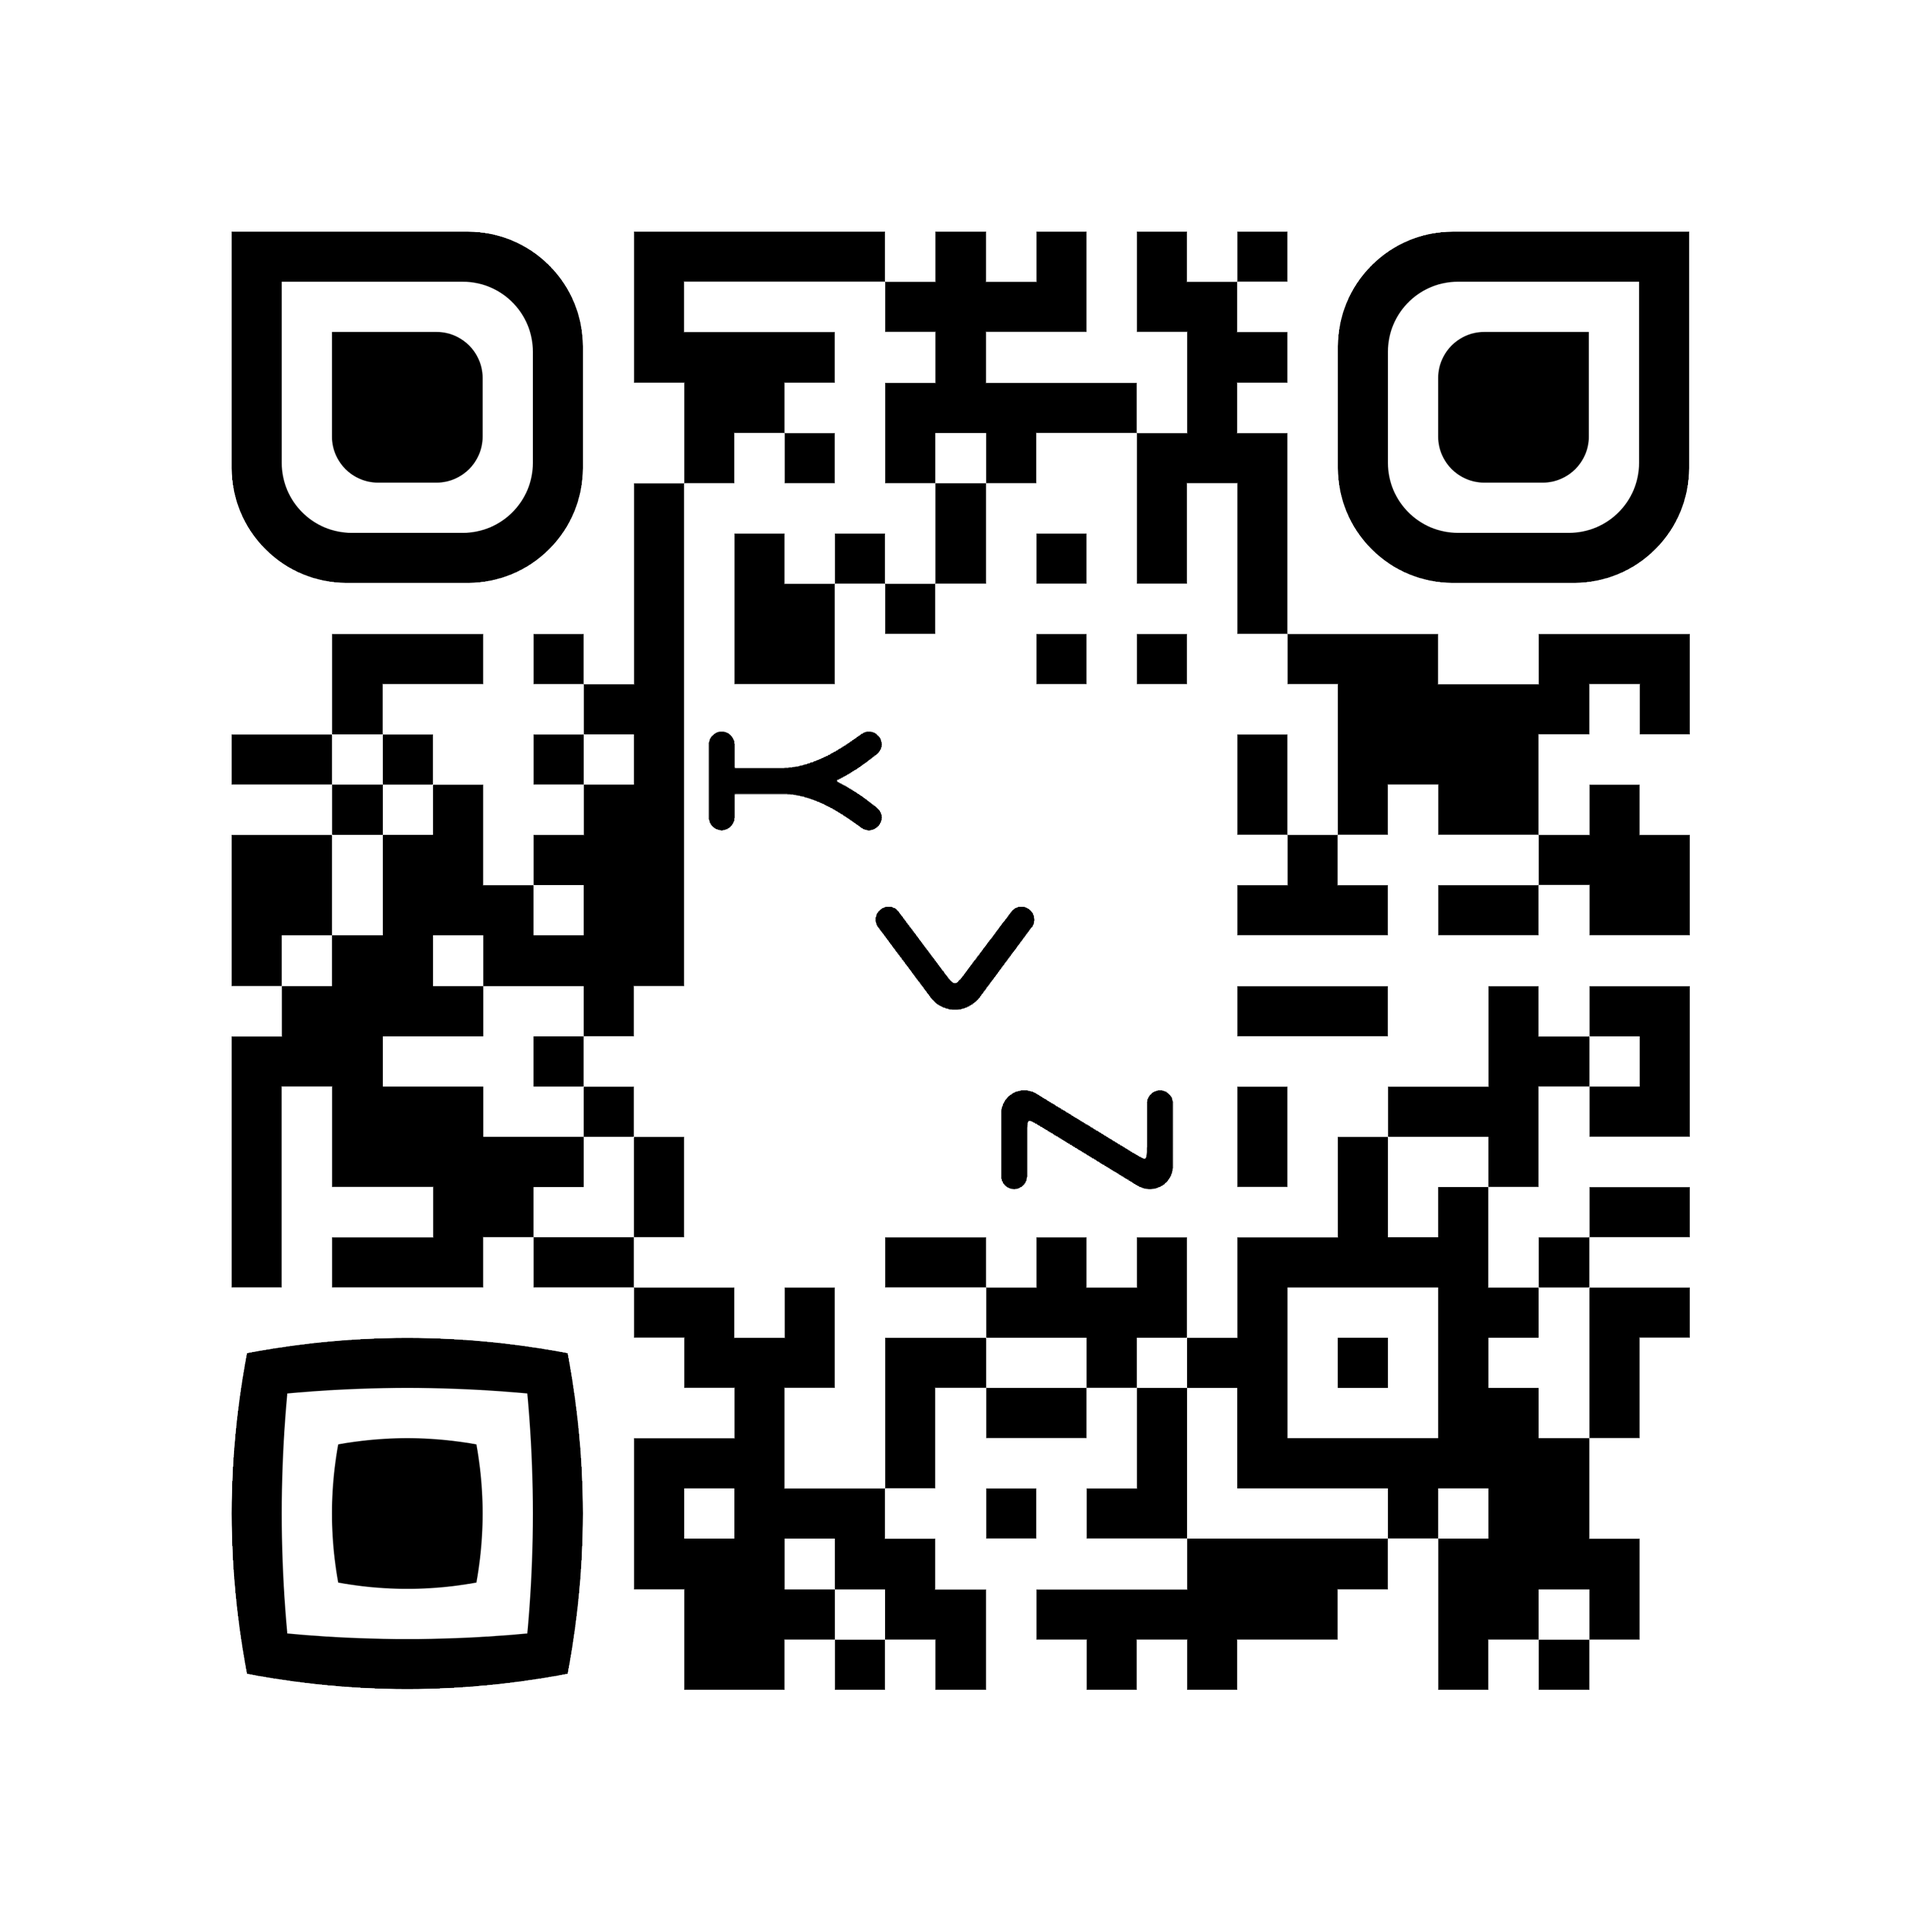
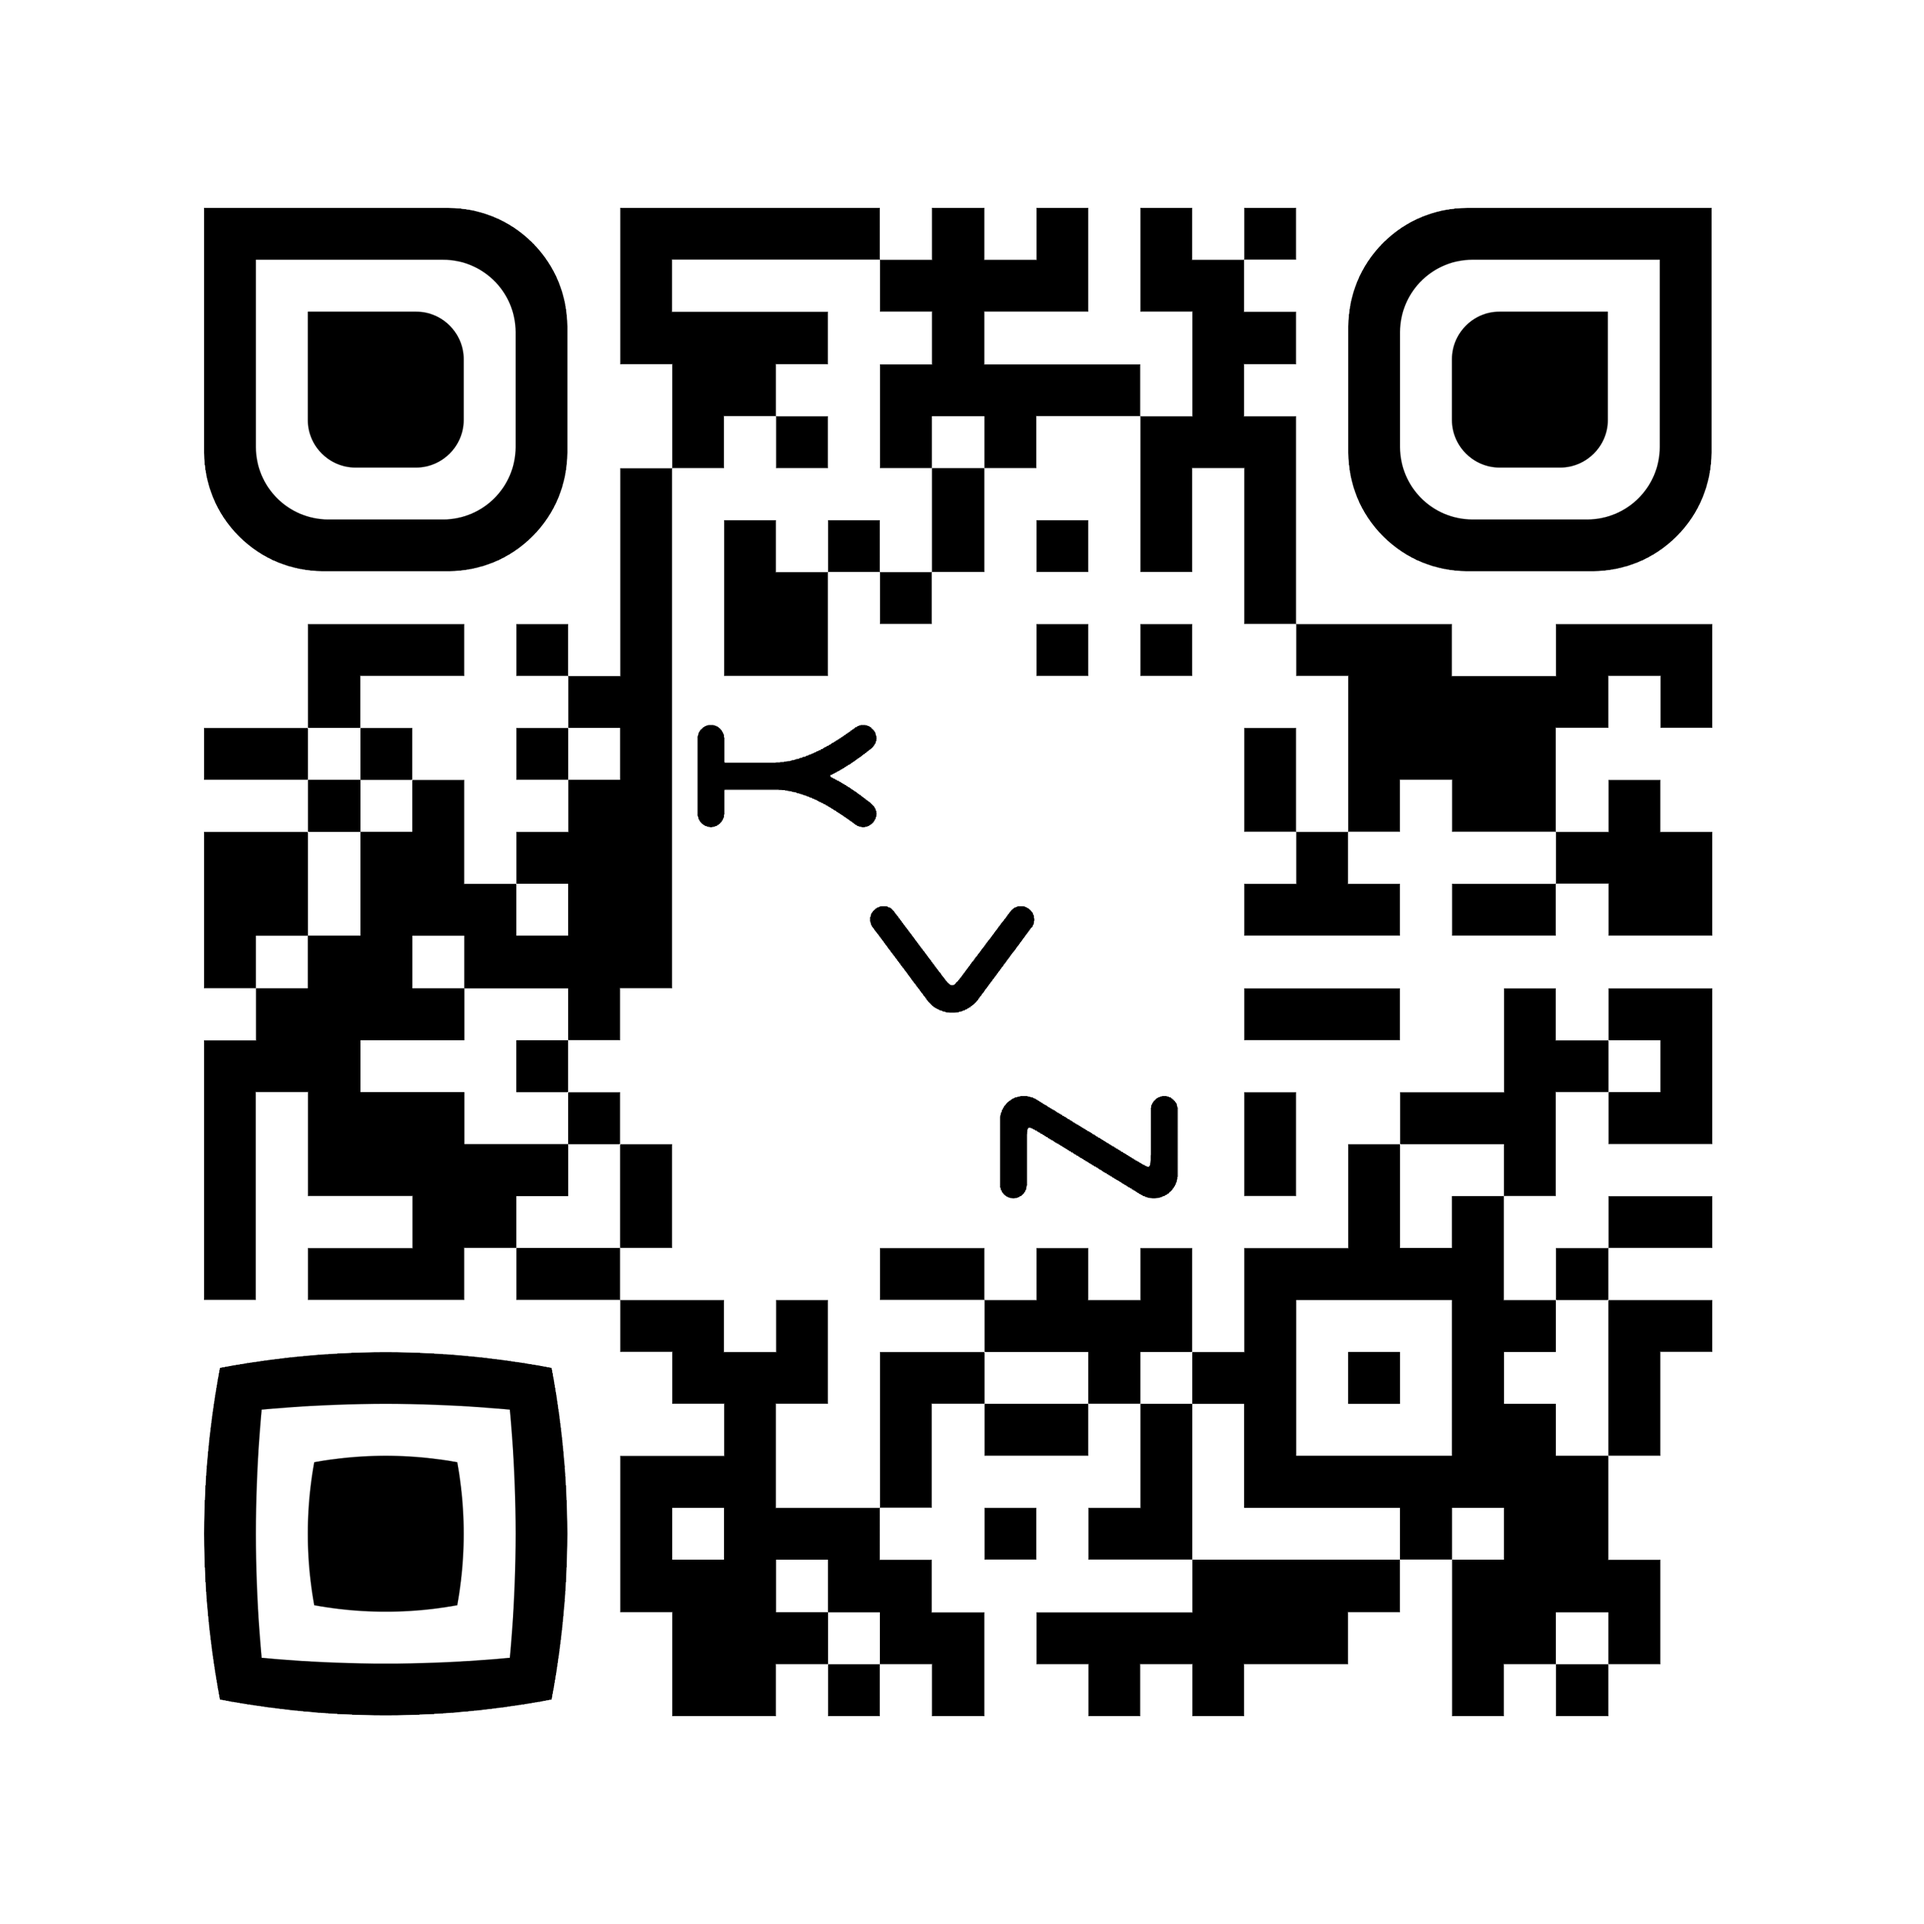
minor css updates

Changed region(s): [[0.093, 0.093, 0.899, 0.899], [0.527, 0.558, 0.558, 0.589], [0.465, 0.496, 0.496, 0.527]]

diff --git a/client/src/pages/TeamPage.js b/client/src/pages/TeamPage.js
@@ -9,11 +9,11 @@ const TeamPage = () => {
 
 
 			{/* John*/}
-			<Col lg="4" md="6" className="mb-lg-0 mb-5">
+			<Col lg="3" md="6" className="mb-lg-0 mb-5">
 				<Avatar tag="img" src="./images/team/john.png" className="rounded-circle hoverable z-depth-1 img-fluid" alt="John" />
 				<h5 className="font-weight-bold mt-4 mb-3">John Stuart</h5>
 				<p className="text-uppercase blue-text">Full Stack Web Developer<br />API Brain</p>
-				<p className="grey-text hoverable px-2	 ">MERN Developer focused on API building and Data Structure<br />I like smol dogs, coffee and coding.<br/>
+				<p className="grey-text hoverable px-2	 ">MERN Developer focused on API building and Data Structure<br />I like smol dogs, coffee and coding.<br/><br/>
 						<img src="./images/team/QRJohn.png" alt="John" className="img-fluid px-4" />
 
 					<ul className="list-unstyled mb-0">
@@ -28,11 +28,11 @@ const TeamPage = () => {
 			{/* /John */}
 
 			{/* Kevin */}
-			<Col lg="4" md="6" className="mb-lg-0 mb-5">
+			<Col lg="3" md="6" className="mb-lg-0 mb-5">
 				<Avatar tag="img" src="./images/team/kvn.png" className="hoverable rounded-circle z-depth-1 img-fluid" alt="Kevin" />
 				<h5 className="font-weight-bold mt-4 mb-3">Kevin Smith</h5>
 				<p className="text-uppercase blue-text">Full Stack Web Developer<br />Frontend Mastermind</p>
-				<p className="grey-text hoverable px-1">MERN Developer specializing in Front End Developement.<br /><br />
+				<p className="grey-text hoverable px-1">MERN Developer specializing in Front End Developement.<br /><br /><br/><br/>
 					<img src="./images/team/QRKevin.png" alt="Kevin Smith PNG" className="img-fluid px-4" />
 					<ul className="list-unstyled mb-0">
 						<a className="p-2 fa-lg" target="blank" href="https://github.com/brainchomper">
@@ -51,7 +51,7 @@ const TeamPage = () => {
 			{/* /Kevin */}
 
 				{/* Joe */}
-				<Col lg="4" md="6" className="mb-lg-0 mb-5">
+				<Col lg="3" md="6" className="mb-lg-0 mb-5">
 				<Avatar tag="img" src="./images/team/joe.png" className="rounded-circle z-depth-1 img-fluid hoverable" alt="Joe" />
 				<h5 className="font-weight-bold mt-4 mb-3">Joe Calderon</h5>
 				<p className="text-uppercase blue-text">Full Stack Web Developer<br />Backend Ninja</p>
@@ -70,27 +70,27 @@ const TeamPage = () => {
 			{/* /Joe */}
 
 			{/* Alex */}
-			{/* <Col lg="3" md="6" className="mb-lg-0 mb-5"> */}
-				{/* <Avatar tag="img" src="./images/team/alex.png" className="hoverable rounded-circle z-depth-1 img-fluid" alt="Alex" /> */}
-				{/* <h5 className="font-weight-bold mt-4 mb-3">Alex Butler</h5> */}
-				{/* <p className="text-uppercase blue-text">Full Stack Web Developer<br /> Something Here</p> */}
-				{/* <p className="grey-text hoverable px-1">MERN Developer<br /><br /><br /><br /> */}
-					{/* <img src="./images/team/QRAlex.png" alt="Kevin Smith PNG" className="img-fluid px-4" /> */}
-					{/* <ul className="list-unstyled mb-0"> */}
-						{/* <a className="p-2 fa-lg" target="blank" href="https://github.com/brainchomper"> */}
-							{/* <Fa icon="github" className="blue-text" /> */}
-						{/* </a> */}
-						{/* <a className="p-2 fa-lg" target="blank" href="https://www.linkedin.com/in/kvnsmith"> */}
-							{/* <Fa icon="linkedin" className="blue-text" /> */}
-						{/* </a> */}
-						{/* <a className="p-2 fa-lg"> */}
-							{/* <Fa icon="twitter" target="blank" href="https://twitter.com/" className="blue-text" /> */}
-						{/* </a> */}
-					{/* </ul> */}
+			<Col lg="3" md="6" className="mb-lg-0 mb-5">
+				<Avatar tag="img" src="./images/team/alex.png" className="hoverable rounded-circle z-depth-1 img-fluid" alt="Alex" />
+				<h5 className="font-weight-bold mt-4 mb-3">Alex Butler</h5>
+				<p className="text-uppercase blue-text">Full Stack Web Developer<br /> Something Here</p>
+				<p className="grey-text hoverable px-1">MERN Developer<br /><br /><br /><br /><br/>
+					<img src="./images/team/QRAlex.png" alt="Kevin Smith PNG" className="img-fluid px-4" />
+					<ul className="list-unstyled mb-0">
+						<a className="p-2 fa-lg" target="blank" href="https://github.com/brainchomper">
+							<Fa icon="github" className="blue-text" />
+						</a>
+						<a className="p-2 fa-lg" target="blank" href="https://www.linkedin.com/in/kvnsmith">
+							<Fa icon="linkedin" className="blue-text" />
+						</a>
+						<a className="p-2 fa-lg">
+							<Fa icon="twitter" target="blank" href="https://twitter.com/" className="blue-text" />
+						</a>
+					</ul>
 					{/* <a href="https://kvnsmith.com">kvnsmith.com</a> */}
-					{/* </p> */}
+					</p>
 
-			{/* </Col> */}
+			</Col>
 			{/* /Alex */}
 				</Row>
 			

diff --git a/client/src/pages/Login.js b/client/src/pages/Login.js
@@ -116,7 +116,7 @@ class FormsPage extends React.Component {
 		if (this.state.reload === false ) {
 		return (
 			<Container className="mx-auto">
-			<Button onClick = {this.cLog}> Loggin state </Button>
+			{/* <Button onClick = {this.cLog}> Loggin state </Button> */}
 				<section className="form-dark">
 					<Card className="card-image animated hoverable" style={{ backgroundImage: 'url(images/coffee-beans.jpg)' }}>
 						<div className="text-white rgba-stylish-light py-5 px-5 z-depth-4">

diff --git a/client/src/pages/Login.css b/client/src/pages/Login.css
@@ -59,3 +59,8 @@
   -webkit-transform-origin: 100% 100%;
   -ms-transform-origin: 100% 100%;
 	transform-origin: 100% 100%; }
+
+
+	.mx-auto {
+		padding-top: 25px;
+	}
